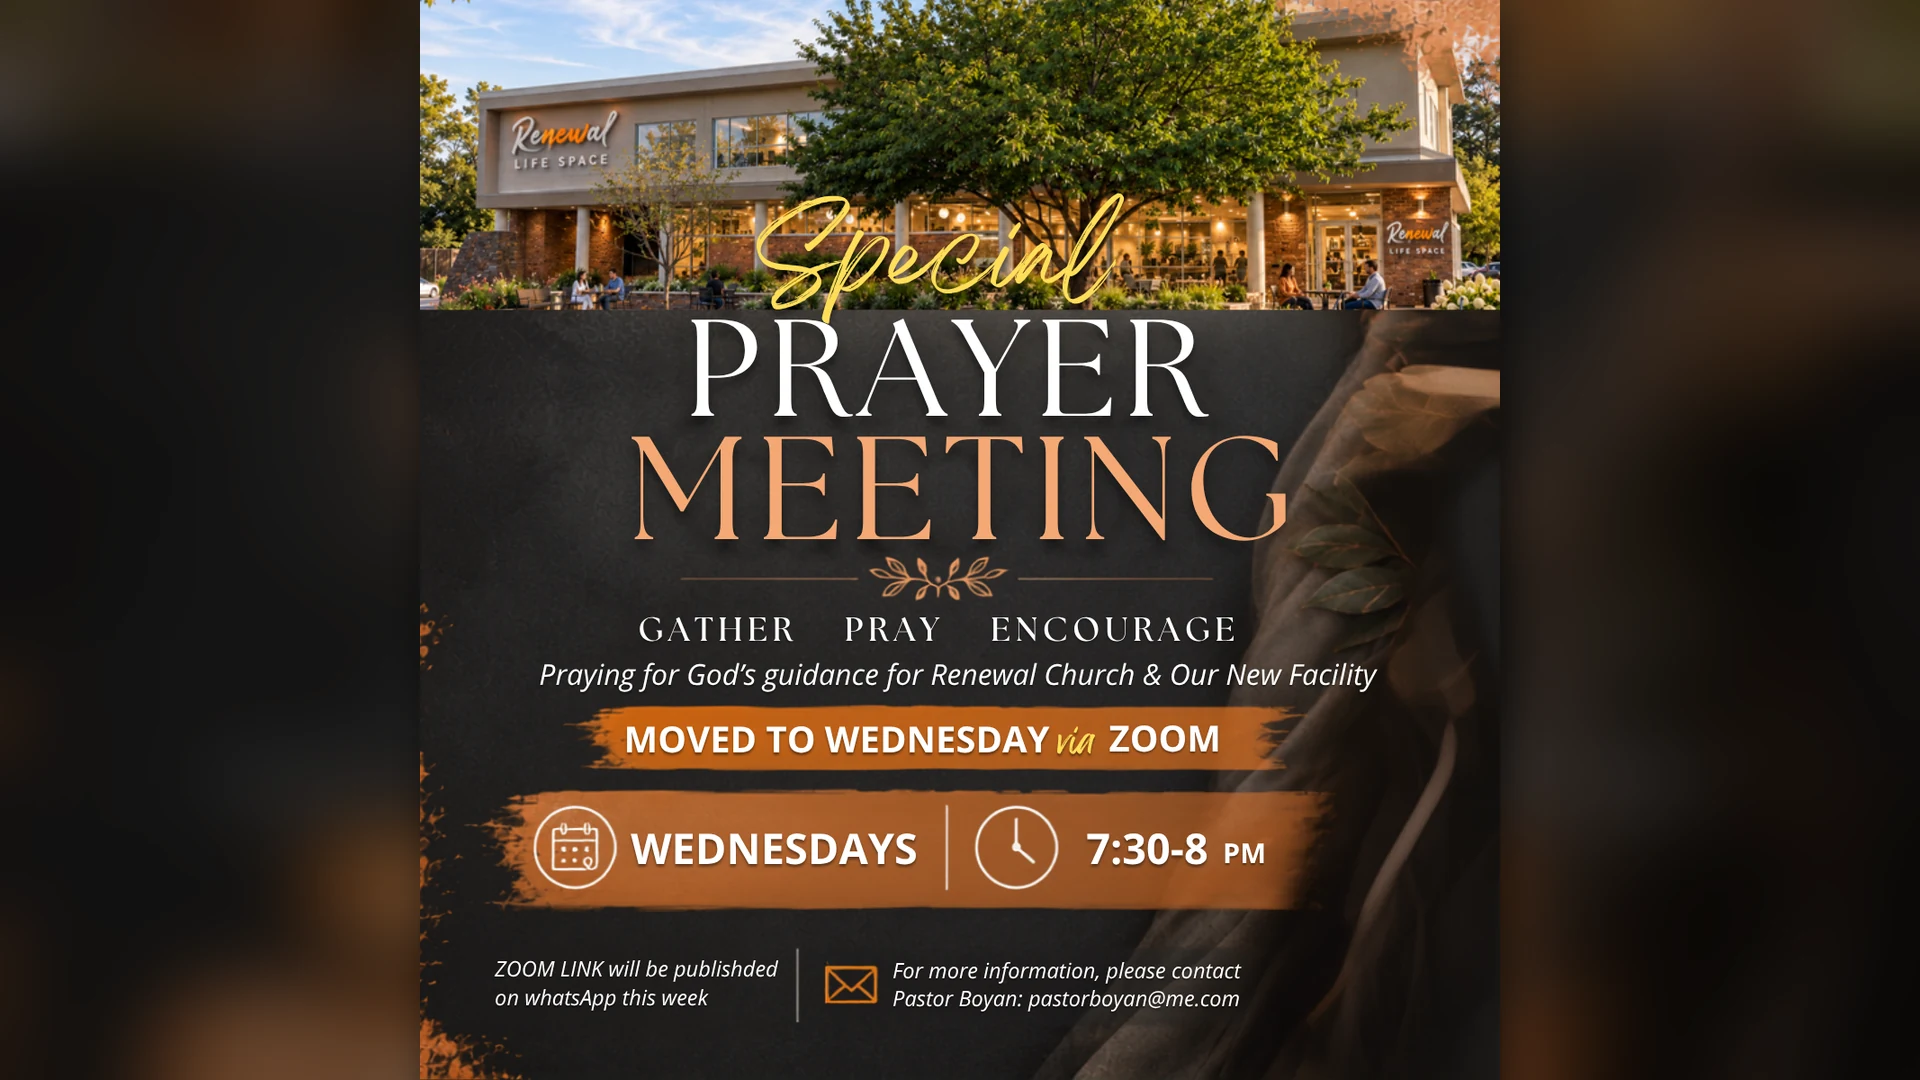
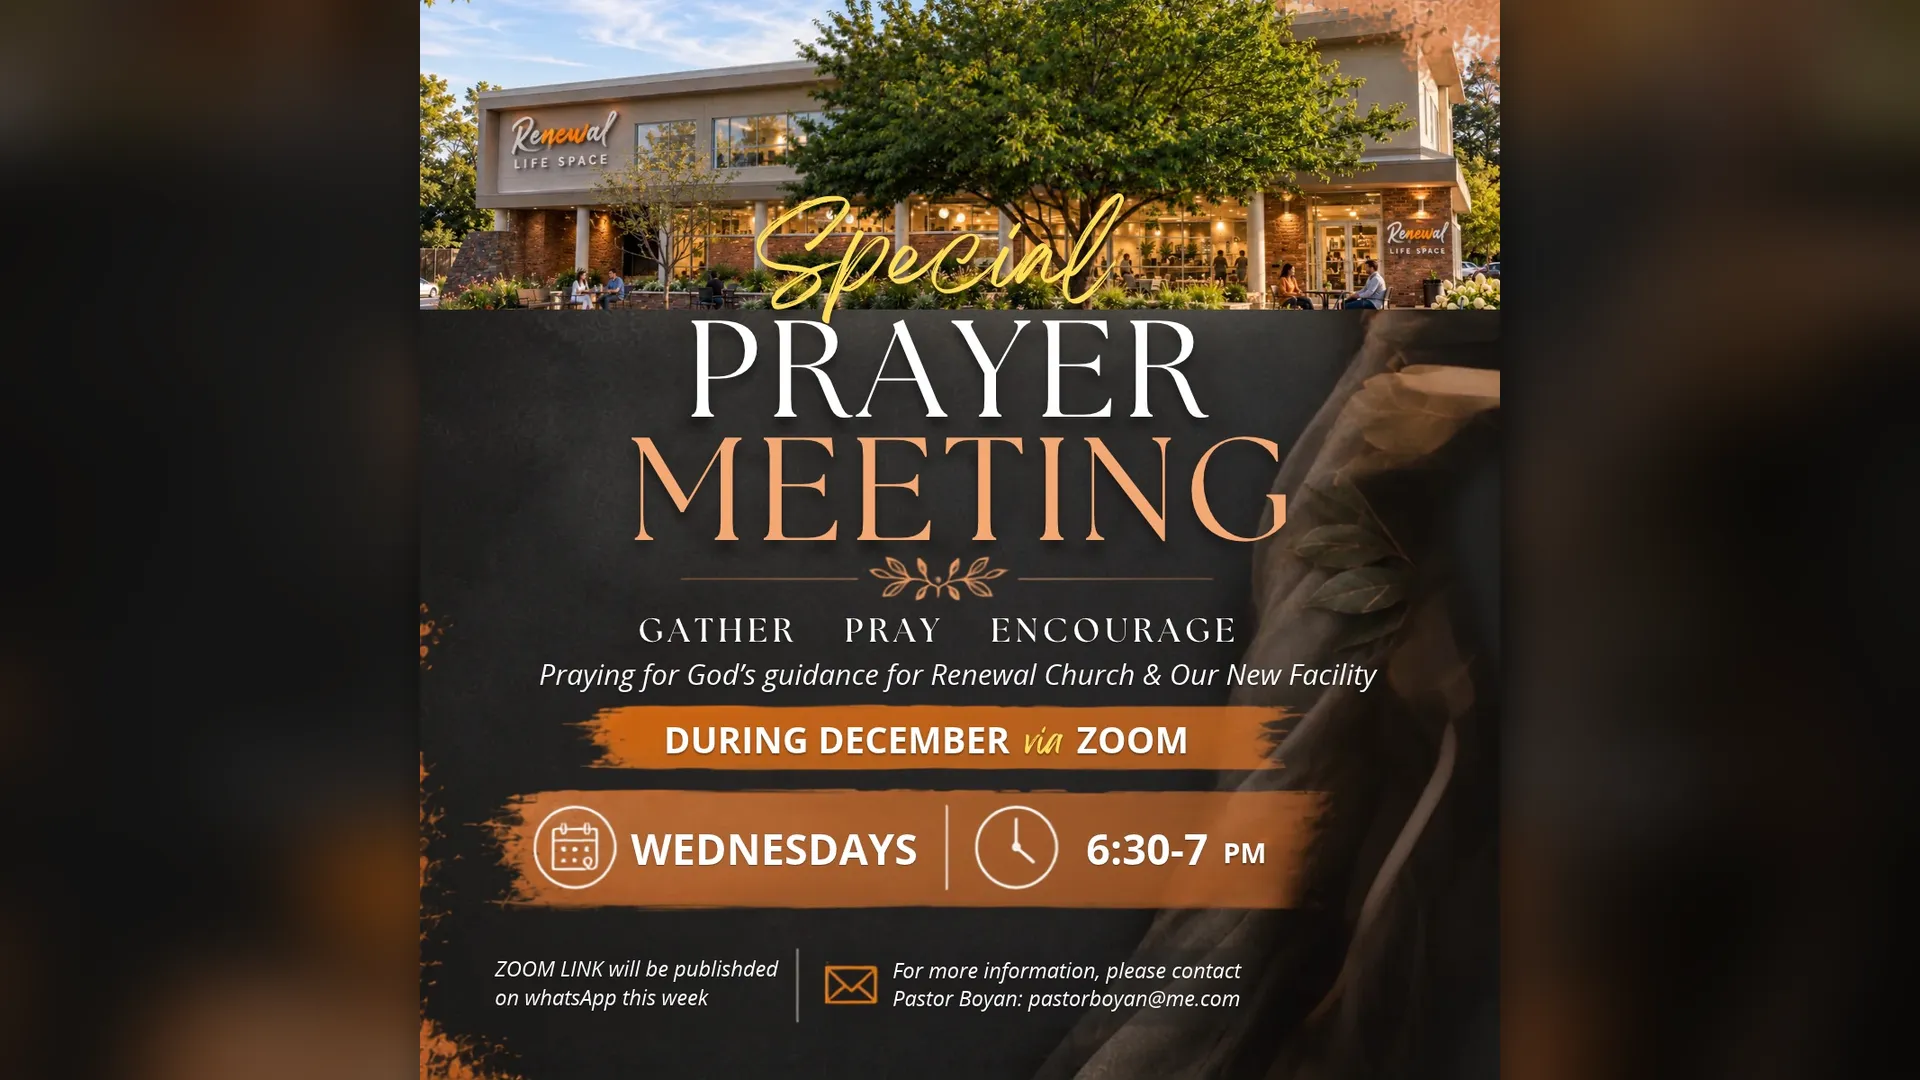
Prayer Meeting: Wednesdays in December 6:30–7:00 PM with updated graphic

diff --git a/index.html b/index.html
@@ -48,7 +48,7 @@ const EVENTS = [
   },
   {
     title: "Prayer Meeting",
-    date: "Wednesdays · 7:30–8:00 PM",
+    date: "Wednesdays in December · 6:30–7:00 PM",
     location: "Online via Zoom",
     description: "A weekly time to gather, pray and encourage one another. We'll be praying for God's guidance for Renewal Church and our new facility. Meets on Wednesday evenings via Zoom. Email us for the Zoom link.",
     url: "mailto:events@renewaldc.org?subject=Prayer%20Meeting",
